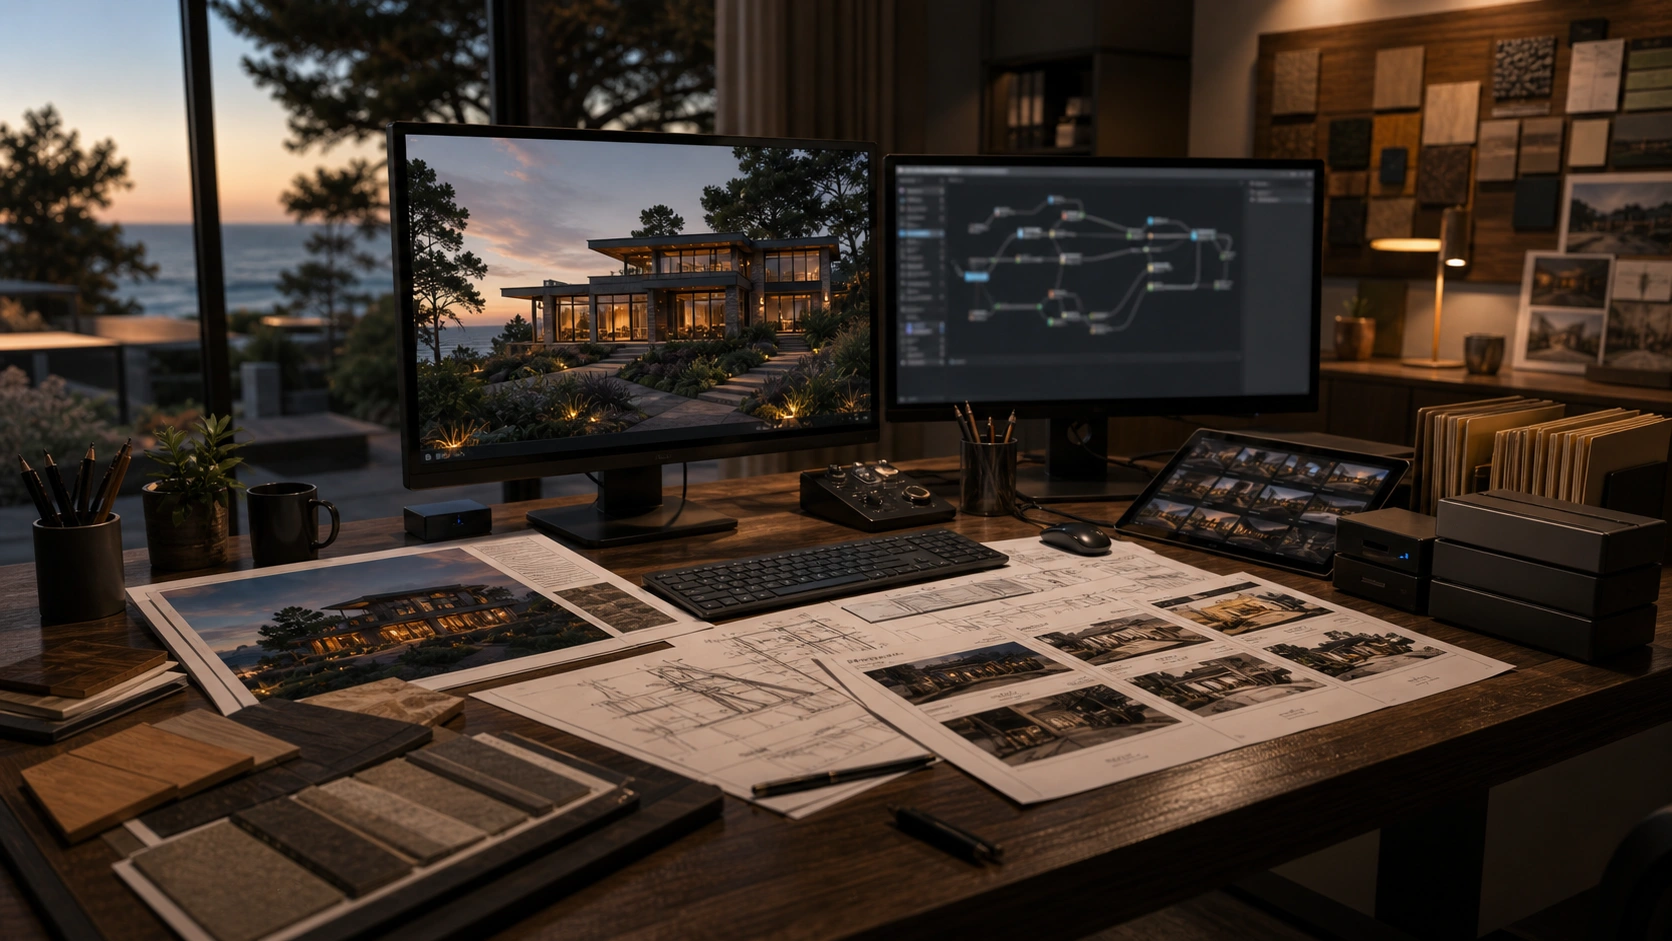
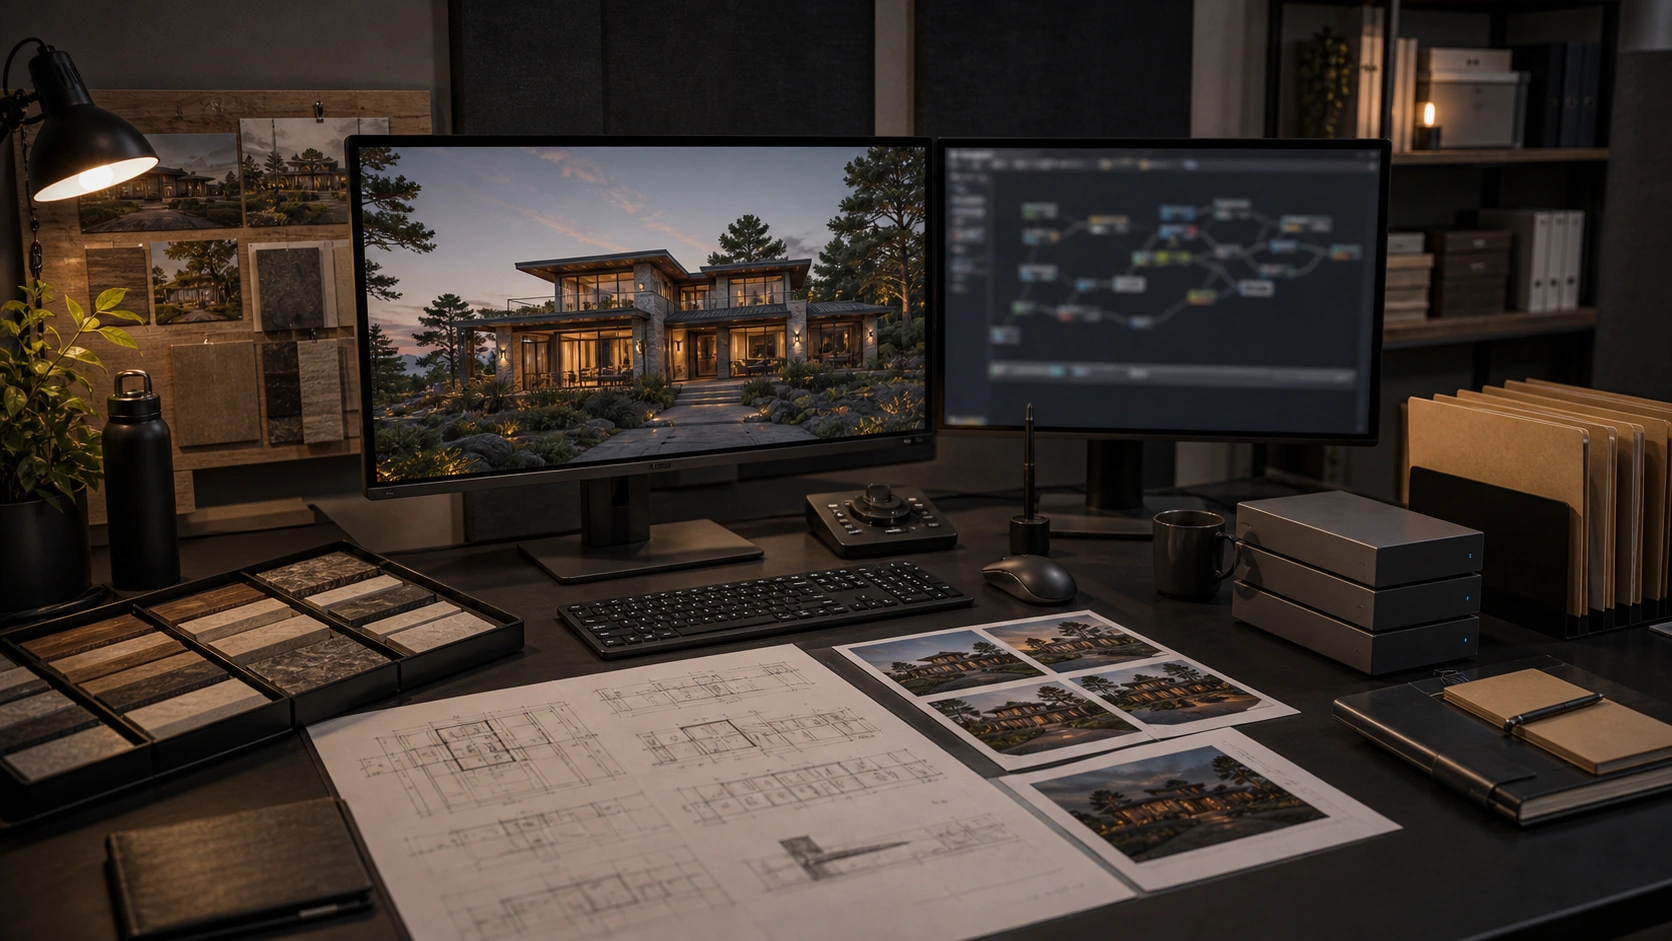
Fix Santa Cruz visuals as remote studio workflow

diff --git a/case-study.js b/case-study.js
@@ -125,7 +125,7 @@ const CASE_STUDIES=[
     id:'santa-cruz-ai-visual-pipeline',
     title:'Local AI Visualization Pipeline',
     image:'assets/process/santa-cruz-ai-visual-pipeline/workflow-board.webp',
-    alt:'Coastal residential visualization scene with material references, architectural drawings, tablet review, and blurred local pipeline workstation.',
+    alt:'Remote production studio desk with exterior residential visualization, material samples, drawings, and blurred local pipeline monitor.',
     meta:['AI workflow','Construction visualization','Visual standards'],
     lead:'A residential-construction workflow case for turning scattered AI experiments, material references, and review needs into a controlled local visualization pipeline.',
     whatTitle:'A visual pipeline that makes AI-assisted images usable for production decisions.',
@@ -137,9 +137,9 @@ const CASE_STUDIES=[
       ['Implementation handoff','The output is a practical brief for developers, AI tool setup, agent instructions, training material, and review checkpoints.']
     ],
     gallery:[
-      ['assets/process/santa-cruz-ai-visual-pipeline/workflow-board.webp','Residential visualization production scene showing the home context, material references, drawings, tablet review, and local pipeline workstation.'],
-      ['assets/process/santa-cruz-ai-visual-pipeline/material-standards.webp','Material standards scene with coastal-home siding, stone, glass, metal, wood, tile, landscape, and lighting references.'],
-      ['assets/process/santa-cruz-ai-visual-pipeline/developer-handoff.webp','Developer handoff scene showing workstation review, architectural drawings, render references, and organized production materials.']
+      ['assets/process/santa-cruz-ai-visual-pipeline/workflow-board.webp','Remote production-studio scene showing exterior visualization options, drawings, material samples, and a blurred local pipeline monitor.'],
+      ['assets/process/santa-cruz-ai-visual-pipeline/material-standards.webp','Portable material standards scene with exterior siding, stone, glass, metal, wood, tile, landscape, and finish references.'],
+      ['assets/process/santa-cruz-ai-visual-pipeline/developer-handoff.webp','Remote handoff workstation scene showing exterior renders, drawings, sample trays, export drives, and organized production materials.']
     ],
     proof:[
       ['Workflow package','Reference structure, material library, prompt rules, QA checklist, output logs, and training notes where approved.'],
@@ -750,7 +750,7 @@ const FINAL_CASE_STUDY_UPGRADES={
   },
   'santa-cruz-ai-visual-pipeline':{
     image:'assets/process/santa-cruz-ai-visual-pipeline/workflow-board.webp',
-    alt:'Coastal residential visualization scene with material references, architectural drawings, tablet review, and blurred local pipeline workstation.',
+    alt:'Remote production studio desk with exterior residential visualization, material samples, drawings, and blurred local pipeline monitor.',
     lead:'A residential visualization workflow study showing how Lesly turns references, material options, AI-assisted image outputs, and review notes into a controlled decision path for construction visuals.',
     whatTitle:'Visual standards before generation.',
     whatCopy:'This case focuses on direction and workflow structure: Lesly defines the reference inputs, material standards, review gates, and handoff notes a team needs before AI-assisted visuals are used for production review or client presentation.',
@@ -761,12 +761,12 @@ const FINAL_CASE_STUDY_UPGRADES={
       ['Handoff direction','The workflow gives developers or operators clear requirements for reference structure, output logs, review states, training notes, and public-sharing limits.']
     ],
     gallery:[
-      ['assets/process/santa-cruz-ai-visual-pipeline/workflow-board.webp','Residential visualization production scene showing the home context, material references, drawings, tablet review, and local pipeline workstation.'],
-      ['assets/process/santa-cruz-ai-visual-pipeline/material-standards.webp','Material standards scene with coastal-home siding, stone, glass, metal, wood, tile, landscape, and lighting references.'],
-      ['assets/process/santa-cruz-ai-visual-pipeline/developer-handoff.webp','Developer handoff scene showing workstation review, architectural drawings, render references, and organized production materials.']
+      ['assets/process/santa-cruz-ai-visual-pipeline/workflow-board.webp','Remote production-studio scene showing exterior visualization options, drawings, material samples, and a blurred local pipeline monitor.'],
+      ['assets/process/santa-cruz-ai-visual-pipeline/material-standards.webp','Portable material standards scene with exterior siding, stone, glass, metal, wood, tile, landscape, and finish references.'],
+      ['assets/process/santa-cruz-ai-visual-pipeline/developer-handoff.webp','Remote handoff workstation scene showing exterior renders, drawings, sample trays, export drives, and organized production materials.']
     ],
     proof:[
-      ['Visible proof','Current proof is a generated residential visualization scene, material standards scene, and handoff workstation scene, not verified software screenshots or client outcome data.'],
+      ['Visible proof','Current proof is generated remote-studio visualization material: exterior render review, portable material standards, and handoff workstation scenes, not verified software screenshots or client outcome data.'],
       ['Standards package','Reference structure, material library logic, acceptable-variation rules, review criteria, and rejection rules.'],
       ['Workflow package','Prompt/reference organization, output-log expectations, review checkpoints, training notes, and handoff requirements.'],
       ['Boundary','AI supports visual exploration and review; it does not replace human art direction, construction decisions, or verified project management.']

diff --git a/index.html b/index.html
@@ -216,7 +216,7 @@
           </a>
           <a class="work-card reveal" data-category="workflow process" href="case-study.html?id=santa-cruz-ai-visual-pipeline">
             <div class="thumb">
-              <img src="assets/process/santa-cruz-ai-visual-pipeline/workflow-board.webp" width="1672" height="941" alt="Coastal residential visualization scene with material references, architectural drawings, tablet review, and blurred local pipeline workstation." loading="lazy">
+              <img src="assets/process/santa-cruz-ai-visual-pipeline/workflow-board.webp" width="1672" height="941" alt="Remote production studio desk with exterior residential visualization, material samples, drawings, and blurred local pipeline monitor." loading="lazy">
               <span class="work-tag" aria-hidden="true">Workflow</span>
               <span class="card-corner card-corner-tl" aria-hidden="true"></span>
               <span class="card-corner card-corner-tr" aria-hidden="true"></span>